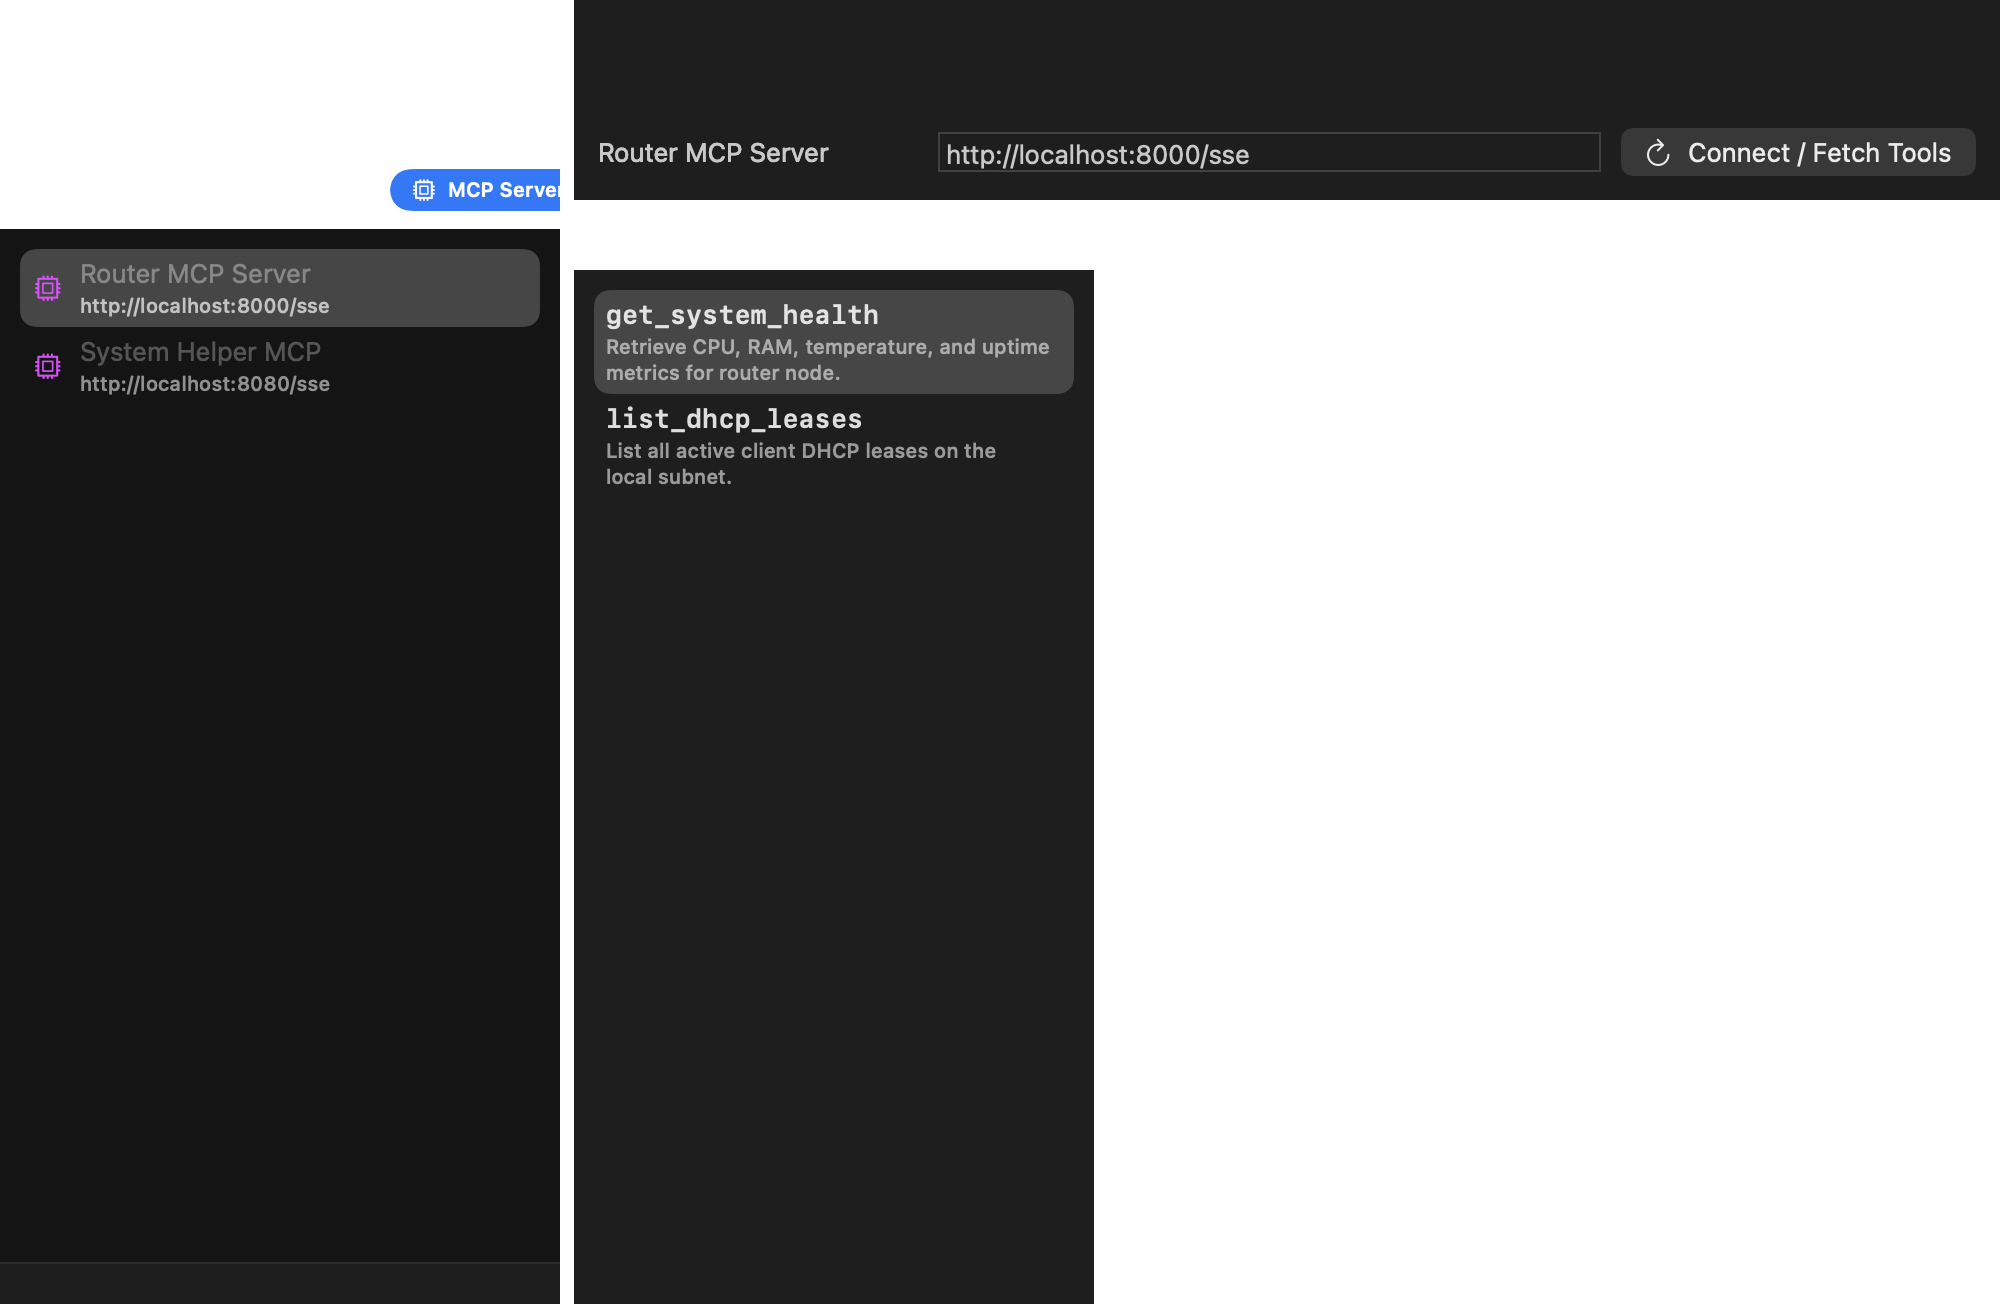
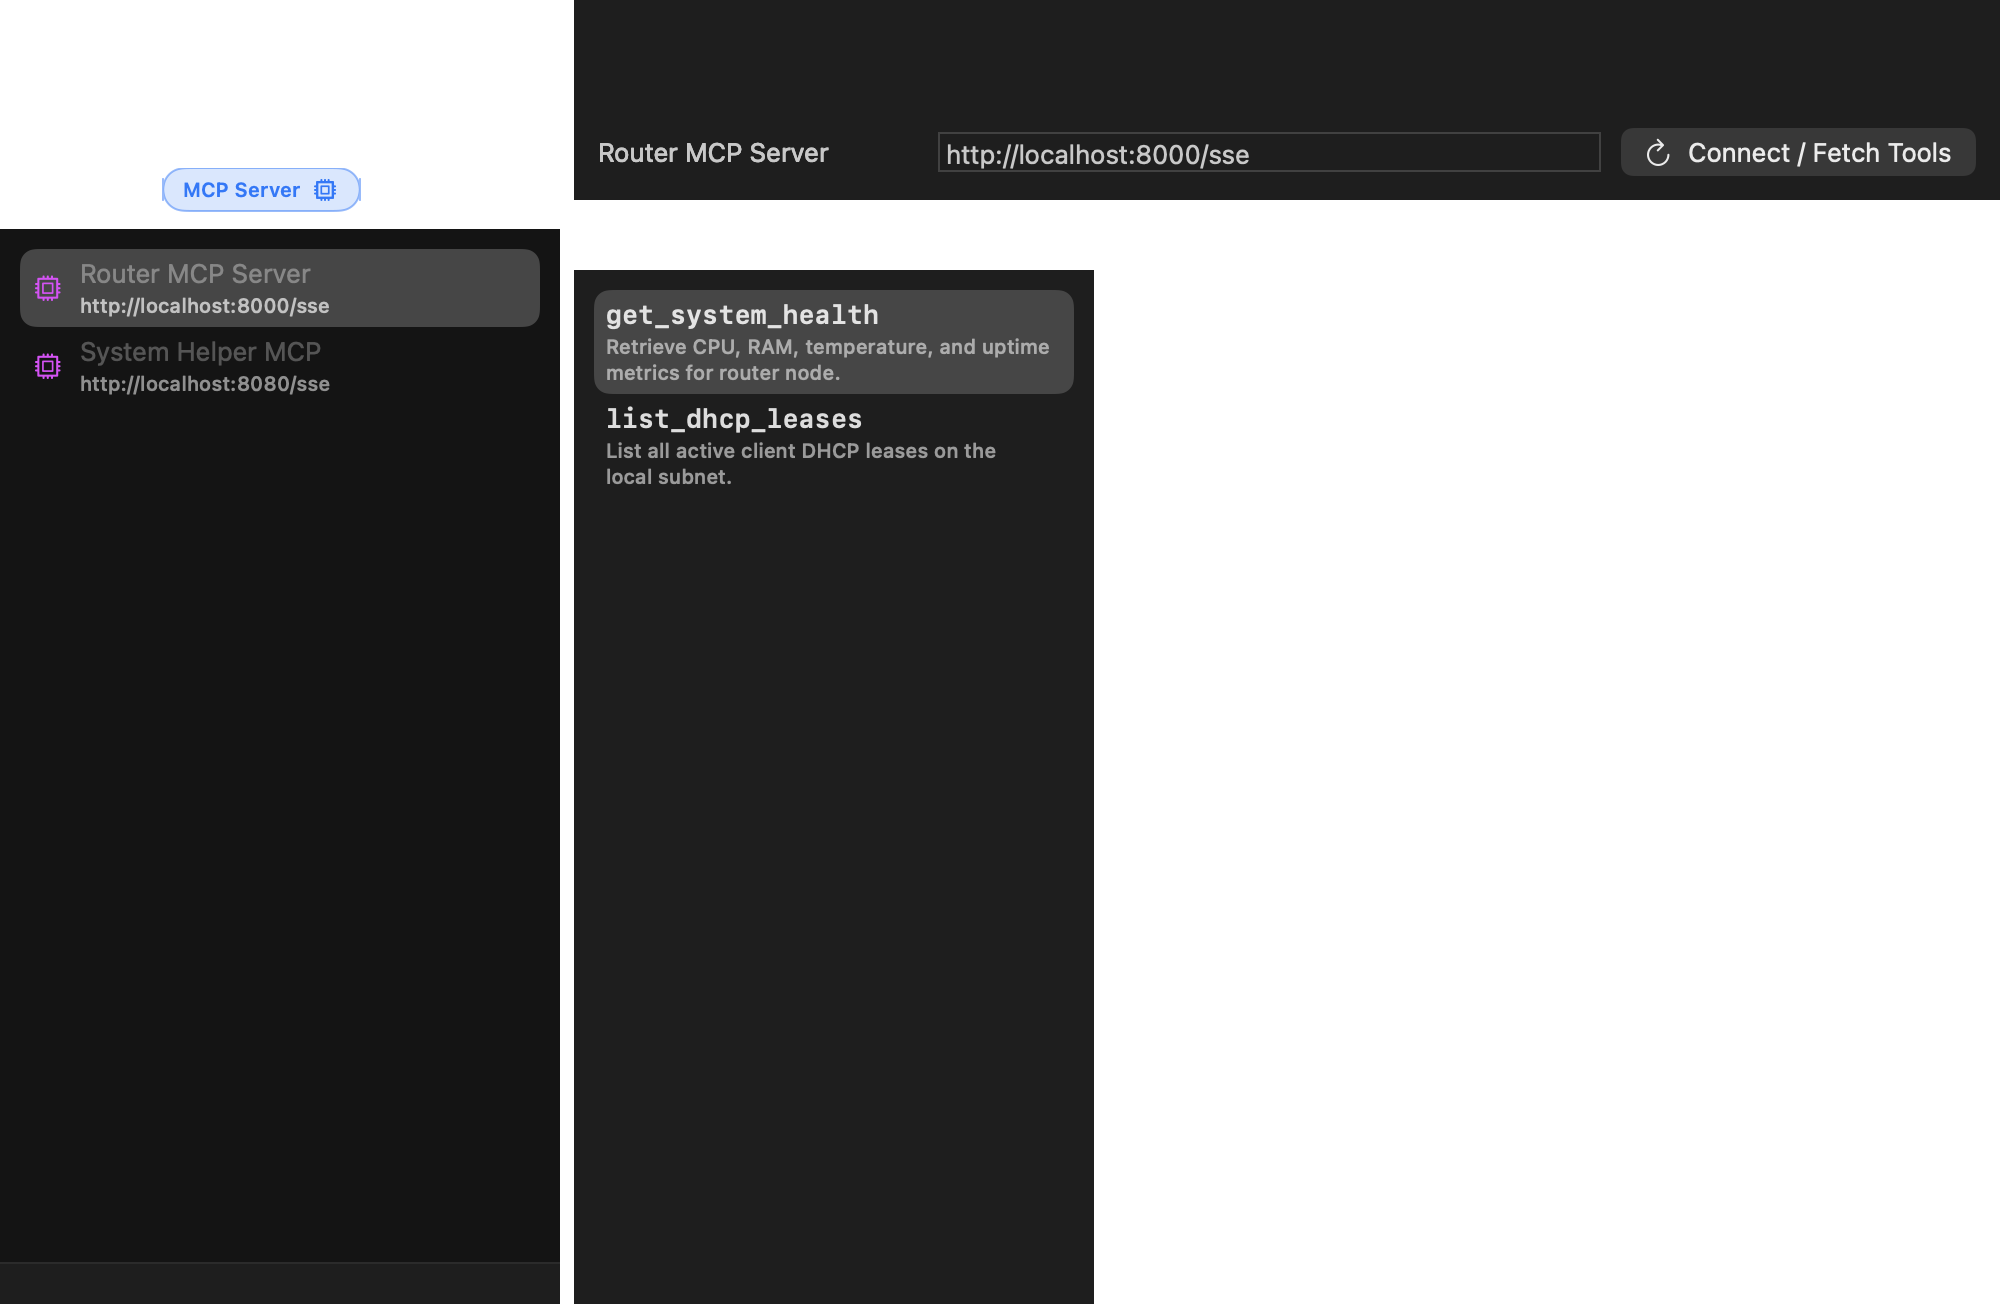
Implement exact Stash-mac animated hover pill bar UX for sidebar tabs

Changed region(s): [[0.062, 0.1227, 0.279, 0.184]]

diff --git a/Sources/Post/Views/SidebarView.swift b/Sources/Post/Views/SidebarView.swift
@@ -211,26 +211,16 @@ struct SidebarView: View {
         ScrollView(.horizontal, showsIndicators: false) {
             HStack(spacing: 6) {
                 ForEach(PostStore.SidebarTab.allCases) { tab in
-                    let isSelected = store.activeTab == tab
-                    Button(action: {
-                        withAnimation(.easeInOut(duration: 0.15)) {
-                            store.activeTab = tab
+                    AnimatedTabPill(
+                        title: tab.rawValue,
+                        iconName: tab.iconName,
+                        isSelected: store.activeTab == tab,
+                        action: {
+                            withAnimation(.snappy(duration: 0.2)) {
+                                store.activeTab = tab
+                            }
                         }
-                    }) {
-                        HStack(spacing: 5) {
-                            Image(systemName: tab.iconName)
-                                .font(.system(size: 11, weight: .medium))
-                            Text(tab.rawValue)
-                                .font(.caption)
-                                .fontWeight(isSelected ? .semibold : .regular)
-                        }
-                        .padding(.vertical, 4)
-                        .padding(.horizontal, 10)
-                        .background(isSelected ? Color.accentColor : Color.secondary.opacity(0.12), in: Capsule())
-                        .foregroundStyle(isSelected ? Color.white : Color.primary)
-                    }
-                    .focusable(false)
-                    .buttonStyle(.plain)
+                    )
                 }
             }
             .padding(.horizontal, 10)
@@ -273,5 +263,60 @@ struct SidebarView: View {
         }
         .padding(20)
         .frame(width: 520, height: 260)
+    }
+}
+
+struct AnimatedTabPill: View {
+    let title: String
+    let iconName: String
+    let isSelected: Bool
+    let action: () -> Void
+
+    @State private var isHovering = false
+
+    var body: some View {
+        Button(action: action) {
+            HStack(spacing: 5) {
+                if isSelected {
+                    Text(title)
+                        .font(.caption.weight(.semibold))
+                        .lineLimit(1)
+                }
+
+                Image(systemName: iconName)
+                    .font(.system(size: 11, weight: isSelected ? .semibold : .medium))
+
+                if !isSelected && isHovering {
+                    Text(title)
+                        .font(.caption.weight(.medium))
+                        .lineLimit(1)
+                        .transition(.asymmetric(
+                            insertion: .opacity.combined(with: .scale(scale: 0.85, anchor: .leading)),
+                            removal: .opacity
+                        ))
+                }
+            }
+            .padding(.horizontal, isSelected || isHovering ? 10 : 8)
+            .padding(.vertical, 4)
+            .background(
+                Capsule()
+                    .fill(isSelected ? Color.accentColor.opacity(0.18) : (isHovering ? Color.primary.opacity(0.08) : Color.primary.opacity(0.05)))
+            )
+            .overlay(
+                Capsule()
+                    .stroke(isSelected ? Color.accentColor.opacity(0.5) : Color.clear, lineWidth: 1)
+            )
+            .foregroundStyle(isSelected ? Color.accentColor : Color.primary)
+            .fixedSize(horizontal: true, vertical: false)
+            .contentShape(Capsule())
+        }
+        .buttonStyle(.plain)
+        .focusable(false)
+        .onHover { hovering in
+            withAnimation(.snappy(duration: 0.2)) {
+                isHovering = hovering
+            }
+        }
+        .help(title)
     }
 }
